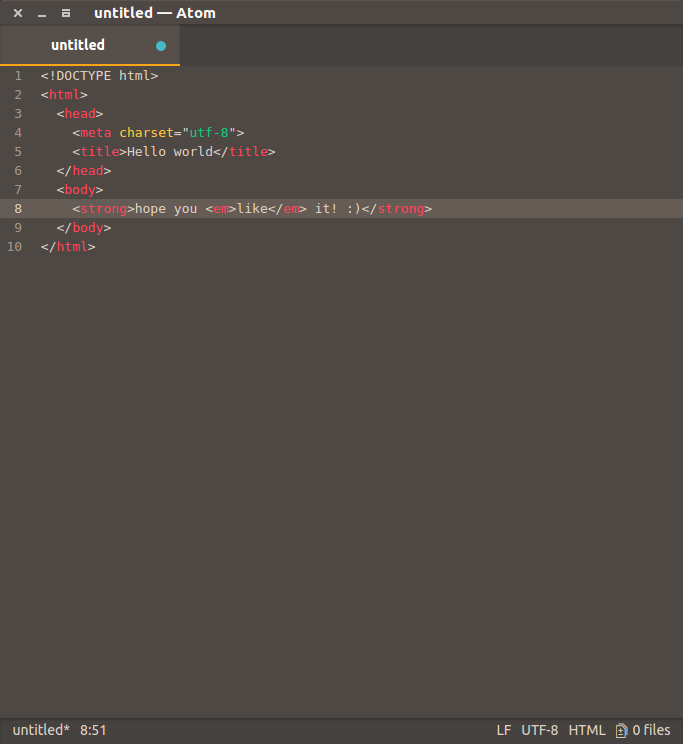
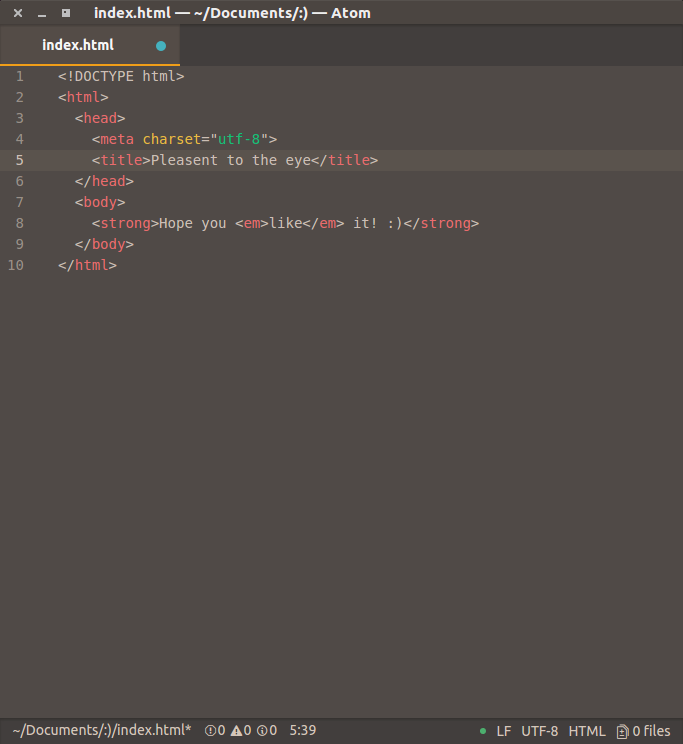
More readable syntax

diff --git a/styles/base.less b/styles/base.less
@@ -18,7 +18,7 @@ atom-text-editor {
 
   .line {
     &.cursor-line {
-      background-color: @syntax-gutter-background-color-selected;
+      background-color: @syntax-selection-color;
     }
   }
 
@@ -28,7 +28,7 @@ atom-text-editor {
 
     .line-number {
       &.cursor-line {
-        background-color: @syntax-gutter-background-color-selected;
+        background-color: @syntax-selection-color;
         color: @syntax-gutter-text-color-selected;
       }
 

diff --git a/styles/colors.less b/styles/colors.less
@@ -10,6 +10,6 @@
 @blue: #1c8dcb;
 @purple: #ae81ff;
 @green: #0ccf7c;
-@red: #ff455b;
+@red: #FF6E70;
 @orange: #ffc83f;
 @light-orange: #F3F96F;
